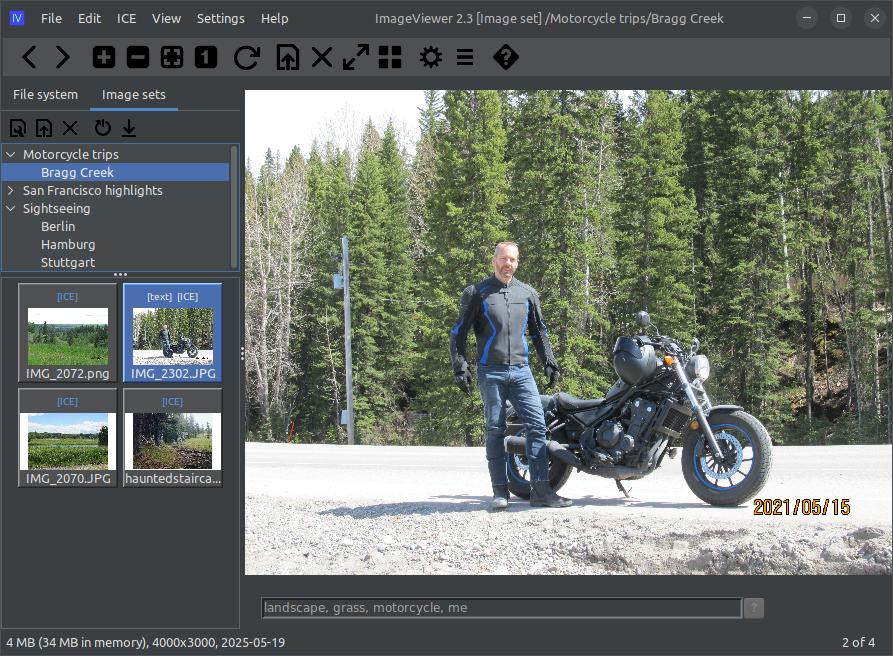
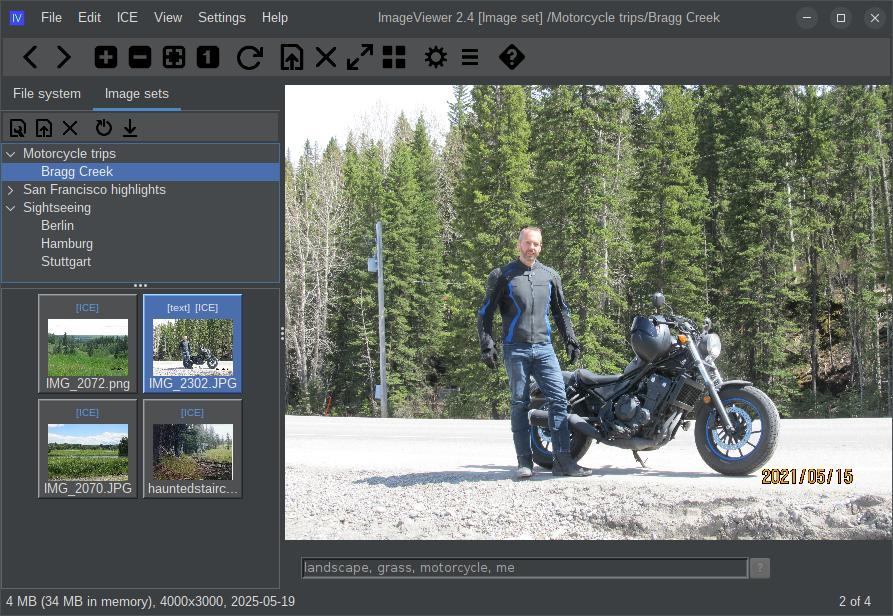
Final changes for 2.4 release! (#71)

diff --git a/src/main/java/ca/corbett/imageviewer/Version.java b/src/main/java/ca/corbett/imageviewer/Version.java
@@ -82,7 +82,7 @@ public final class Version {
     static {
         aboutInfo = new AboutInfo();
         aboutInfo.applicationName = APPLICATION_NAME;
-        aboutInfo.applicationVersion = VERSION + "-SNAPSHOT"; // TODO remove me before release
+        aboutInfo.applicationVersion = VERSION;
         aboutInfo.copyright = COPYRIGHT;
         aboutInfo.license = LICENSE;
         aboutInfo.projectUrl = PROJECT_URL;

diff --git a/.github/copilot-instructions.md b/.github/copilot-instructions.md
@@ -5,7 +5,7 @@
 **ImageViewer** is a 100% Java desktop image viewer application with a UI written in Java Swing. It is an extensible, highly configurable image browsing and management tool that allows users to sort, rename, move, and symlink images quickly. The application supports a powerful extension mechanism for adding custom functionality.
 
 - **Repository**: https://github.com/scorbo2/imageviewer
-- **Version**: 2.3 is in production 2.4 is in development
+- **Version**: 2.4
 - **License**: MIT
 - **Language**: Java 17+
 - **Build System**: Maven 3.9+
@@ -53,15 +53,15 @@
    - Takes ~30-40 seconds on clean build
    - Takes ~2-5 seconds on incremental build
    - Produces:
-     - `target/imageviewer-2.4-SNAPSHOT.jar` (~308KB) - Main application JAR
-     - `target/imageviewer-2.4-SNAPSHOT-sources.jar` (~205KB) - Source JAR
-     - `target/imageviewer-2.4-SNAPSHOT-javadoc.jar` (~617KB) - Javadoc JAR
+     - `target/imageviewer-2.4.jar` (~308KB) - Main application JAR
+     - `target/imageviewer-2.4-sources.jar` (~205KB) - Source JAR
+     - `target/imageviewer-2.4-javadoc.jar` (~617KB) - Javadoc JAR
      - `target/lib/` - Directory with all dependencies
 
 5. **Run the application**:
    ```bash
    cd target
-   java -jar imageviewer-2.4-SNAPSHOT.jar
+   java -jar imageviewer-2.4.jar
    ```
    - Optional: Add `-v` flag to display version and exit
    - Optional: Add directory path as argument to start in that directory
@@ -137,7 +137,7 @@ src/
 ```
 
 ### Key Dependencies (from pom.xml)
-- **swing-extras 2.6.0-SNAPSHOT**: Custom Swing components (ca.corbett)
+- **swing-extras 2.6.0**: Custom Swing components (ca.corbett)
 - **jackson-databind 2.15.2**: JSON processing
 - **commons-io 2.19.0**: File I/O utilities
 - **sqlite-jdbc 3.41.2.2**: SQLite database support

diff --git a/README.md b/README.md
@@ -15,9 +15,10 @@ Features:
 An installer tarball is available for linux-based systems. Just download, extract, and run
 the installer script to install the application:
 
-- [ImageViewer-2.3.tar.gz](http://www.corbett.ca/apps/ImageViewer-2.3.tar.gz)
+- [http://www.corbett.ca/apps/ImageViewer-2.4.tar.gz](http://www.corbett.ca/apps/ImageViewer-2.4.tar.gz)
 - 20MB
-- SHA-1: `cb75136ada6b57b4340e98afab1985e6c9984a6e`
+- SHA-1: `3ee6626003ea6cc98d379e71aa693ed679894cf8`
[1 lines of base64/hex data omitted]
 
 Alternatively, you can clone this repo and build it with Maven (Java 17 or higher required):
 
@@ -28,7 +29,7 @@ mvn package
 
 # Run manually:
 cd target
-java -jar imageviewer-2.3.jar
+java -jar imageviewer-2.4.jar
 ```
 
 If you have [install-scripts](https://github.com/scorbo2/install-scripts) installed and you are running the build
@@ -79,7 +80,7 @@ and its associated Javadocs, to see the extension points that your extension can
 
 ## License
 
-imageviewer is made available under the MIT license: https://opensource.org/license/mit
+ImageViewer is made available under the MIT license: https://opensource.org/license/mit
 
 ## Revision history
 
